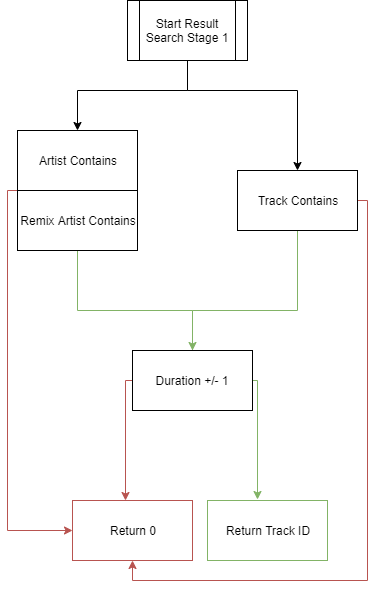
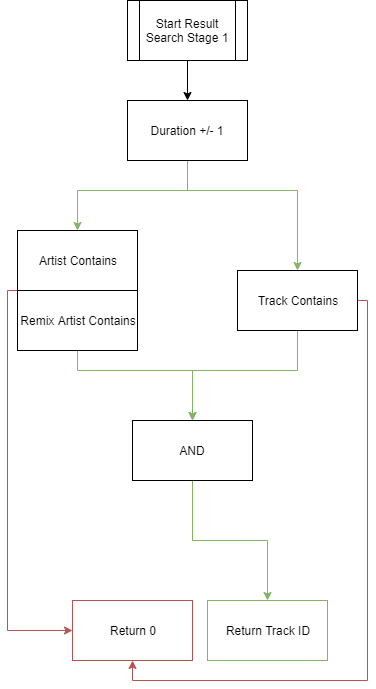
Updated Docs

diff --git a/DeezerSync/DeezerSync.Core/Search.cs b/DeezerSync/DeezerSync.Core/Search.cs
@@ -193,6 +193,11 @@ namespace DeezerSync.Core
 #endif
             foreach (var result in results)
             {
+                /*
+                 * DeezerSync Result Search Filter
+                 * Results 777 songs out of 1593
+                 * False positives TRUE
+                 * 
                 //Artist
                 if (!string.IsNullOrEmpty(result.artist))
                 {
@@ -277,7 +282,7 @@ namespace DeezerSync.Core
                     log.Info("Found Song Artist: " + result.username + " Track: " + result.title + " https://www.deezer.com/us/track/" + result.id);
                     return result.id;
                 }
-
+                */
                 log.Info("Could not find Track: " + result.title + " Artist: " + result.artist ?? result.username + "Original Track: " + Searching.title + " Artist: " + Searching.artist ?? Searching.username);
             }
             return 0;

diff --git a/DataAnalytics/DeezerSync.Core.IntegrationTest/Search.cs b/DataAnalytics/DeezerSync.Core.IntegrationTest/Search.cs
@@ -40,7 +40,7 @@ namespace DeezerSync.Core.IntegrationTest
                         found++;
                     }
                 }
-                catch (Exception e)
+                catch (Exception)
                 {
                     error++;
                 }
